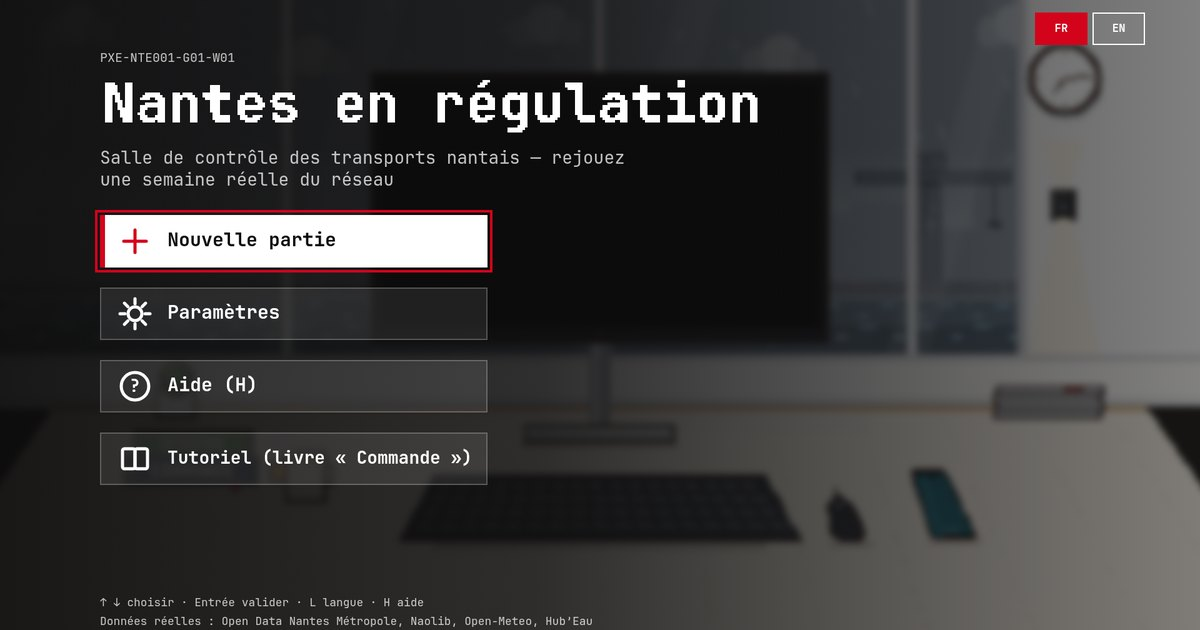
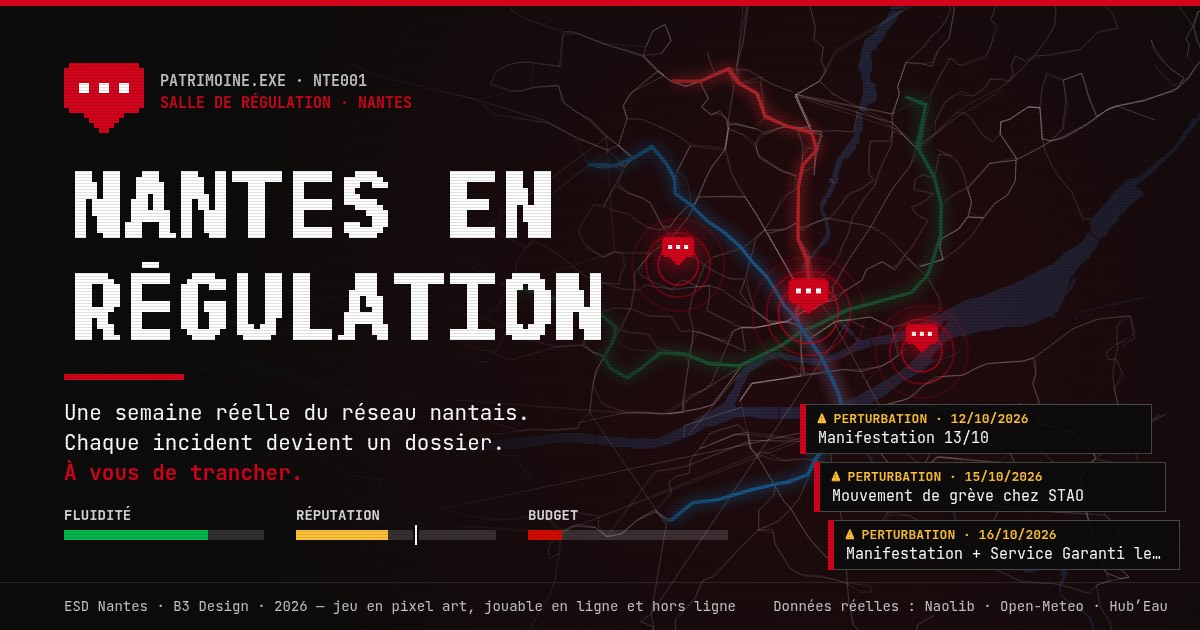
Image Open Graph plus visuelle : carte réelle de nuit, titre pixel, alertes et dossiers réels

diff --git a/site/scripts/og-image.html b/site/scripts/og-image.html
@@ -1,0 +1,201 @@
+<!doctype html>
+<!-- Nantes en régulation — gabarit de l'image Open Graph (1200 × 630), rendu par site/scripts/og-image.mjs.
+     Tout ce qui est dessiné vient du dépôt : tracés réels des lignes Naolib et de la Loire (data/lignes.json,
+     Open Data Nantes Métropole, Licence Ouverte), trois dossiers réels du repli (data/fallback.json), logo
+     bulle-pin (favicon.svg), couleurs du Pixel Design System, police JetBrains Mono auto-hébergée. -->
+<html lang="fr">
+	<head>
+		<meta charset="utf-8" />
+		<link rel="stylesheet" href="../public/fonts.css" />
+		<style>
+			html, body { margin: 0; background: #0d0c0c; }
+			canvas { display: block; }
+		</style>
+	</head>
+	<body>
+		<canvas id="og" width="1200" height="630"></canvas>
+		<script>
+			const W = 1200, H = 630;
+			const ROUGE = '#D4031C', FOND = '#0D0C0C', BLANC = '#FFFFFF';
+			const cv = document.getElementById('og');
+			const g = cv.getContext('2d');
+
+			/** Texte « pixel » : rendu petit, seuillé (pas d'anticrénelage), puis agrandi sans lissage */
+			function textePixel(txt, x, y, taillePx, echelle, couleur) {
+				const c = document.createElement('canvas');
+				const k = c.getContext('2d');
+				k.font = `800 ${taillePx}px "JetBrains Mono"`;
+				const l = Math.ceil(k.measureText(txt).width) + 4;
+				c.width = l;
+				c.height = taillePx + 6;
+				k.font = `800 ${taillePx}px "JetBrains Mono"`;
+				k.textBaseline = 'top';
+				k.fillStyle = '#fff';
+				k.fillText(txt, 2, 2);
+				const im = k.getImageData(0, 0, c.width, c.height);
+				const [r, v, b] = couleur.match(/\w\w/g).map((h) => parseInt(h, 16));
+				for (let i = 0; i < im.data.length; i += 4) {
+					const plein = im.data[i + 3] > 110;
+					im.data[i] = r; im.data[i + 1] = v; im.data[i + 2] = b; im.data[i + 3] = plein ? 255 : 0;
+				}
+				k.putImageData(im, 0, 0);
+				g.imageSmoothingEnabled = false;
+				g.drawImage(c, x, y, c.width * echelle, c.height * echelle);
+				return c.width * echelle;
+			}
+			/** Logo bulle-pin (favicon.svg), 16 × 16 pixels */
+			function logo(x, y, p) {
+				const r = (a, b, l, h, c) => ((g.fillStyle = c), g.fillRect(x + a * p, y + b * p, l * p, h * p));
+				[[1, 1, 14, 1], [0, 2, 16, 8], [1, 10, 14, 1], [4, 11, 8, 1], [5, 12, 6, 1], [6, 13, 4, 1], [7, 14, 2, 1]].forEach((q) => r(...q, ROUGE));
+				[[3, 5, 2, 2], [7, 5, 2, 2], [11, 5, 2, 2]].forEach((q) => r(...q, BLANC));
+			}
+
+			async function dessiner() {
+				await document.fonts.load('800 20px "JetBrains Mono"');
+				await document.fonts.load('400 20px "JetBrains Mono"');
+				const L = await (await fetch('../public/data/lignes.json')).json();
+				const F = await (await fetch('../public/data/fallback.json')).json();
+
+				g.fillStyle = FOND;
+				g.fillRect(0, 0, W, H);
+
+				// ——— Carte réelle : centre-ville de Nantes, cadré à droite ———
+				const centre = [-1.556, 47.214];
+				const kx = Math.cos((centre[1] * Math.PI) / 180);
+				const ech = 5200; // px par degré de longitude corrigé
+				const px = ([lon, lat]) => [800 + (lon - centre[0]) * kx * ech, 330 - (lat - centre[1]) * ech];
+				const chemin = (pts) => {
+					g.beginPath();
+					pts.forEach((p, i) => { const [a, b] = px(p); i ? g.lineTo(a, b) : g.moveTo(a, b); });
+				};
+				// Loire et cours d'eau
+				g.fillStyle = '#16304d';
+				L.eau.forEach((poly) => { chemin(poly); g.closePath(); g.fill(); });
+				// Lignes : bus en fin, tram et busway (type 0) épais et lumineux
+				const lignes = L.lignes.slice().sort((a, b) => (a.type === 0) - (b.type === 0));
+				lignes.forEach((ln) => {
+					const tram = ln.type === 0;
+					g.strokeStyle = tram ? ln.couleur || BLANC : 'rgba(255,255,255,0.16)';
+					g.lineWidth = tram ? 3 : 1;
+					g.shadowColor = tram ? ln.couleur || BLANC : 'transparent';
+					g.shadowBlur = tram ? 14 : 0;
+					g.globalAlpha = tram ? 0.9 : 1;
+					ln.traces.forEach((t) => { chemin(t); g.stroke(); });
+				});
+				g.shadowBlur = 0;
+				g.globalAlpha = 1;
+
+				// Voile : la gauche sombre pour le titre, bords en vignette
+				let gr = g.createLinearGradient(0, 0, W, 0);
+				gr.addColorStop(0, 'rgba(13,12,12,1)');
+				gr.addColorStop(0.36, 'rgba(13,12,12,0.94)');
+				gr.addColorStop(0.62, 'rgba(13,12,12,0.25)');
+				gr.addColorStop(1, 'rgba(13,12,12,0.55)');
+				g.fillStyle = gr;
+				g.fillRect(0, 0, W, H);
+				gr = g.createRadialGradient(820, 320, 120, 820, 320, 620);
+				gr.addColorStop(0, 'rgba(212,3,28,0.10)');
+				gr.addColorStop(1, 'rgba(212,3,28,0)');
+				g.fillStyle = gr;
+				g.fillRect(0, 0, W, H);
+
+				// ——— Alertes : pins bulle-pin avec ondes, posés sur des tracés réels ———
+				const pins = [[-1.5536, 47.2172], [-1.5905, 47.2265], [-1.5215, 47.2098]];
+				pins.forEach((p, i) => {
+					const [a, b] = px(p);
+					[46, 32, 20].forEach((r, k) => {
+						g.strokeStyle = `rgba(212,3,28,${0.18 + k * 0.2})`;
+						g.lineWidth = 2;
+						g.beginPath();
+						g.arc(a, b, r + (i === 0 ? 10 : 0), 0, Math.PI * 2);
+						g.stroke();
+					});
+					g.shadowColor = ROUGE;
+					g.shadowBlur = 24;
+					logo(a - 16 * (i === 0 ? 2.5 : 2) / 2, b - 15 * (i === 0 ? 2.5 : 2), i === 0 ? 2.5 : 2);
+					g.shadowBlur = 0;
+				});
+
+				// ——— Dossiers réels (repli : semaine du 12 au 18/10/2026) ———
+				const dossiers = F.dossiers.filter((d) => d.type === 'perturbation').slice(0, 3);
+				const fmt = (iso) => iso.split('-').reverse().slice(0, 2).join('/');
+				dossiers.forEach((d, i) => {
+					const x = 800 + i * 14, y = 404 + i * 58, l = 352, h = 50;
+					g.fillStyle = 'rgba(13,12,12,0.92)';
+					g.fillRect(x, y, l, h);
+					g.strokeStyle = 'rgba(255,255,255,0.25)';
+					g.lineWidth = 1;
+					g.strokeRect(x + 0.5, y + 0.5, l - 1, h - 1);
+					g.fillStyle = ROUGE;
+					g.fillRect(x, y, 6, h);
+					g.font = '700 13px "JetBrains Mono"';
+					g.fillStyle = '#FFC138';
+					g.fillText('⚠ ' + String(d.type).toUpperCase() + ' · ' + fmt(d.date) + '/2026', x + 18, y + 19);
+					g.font = '400 15px "JetBrains Mono"';
+					g.fillStyle = BLANC;
+					let t = String(d.texte_source || d.nature);
+					while (g.measureText(t).width > l - 36) t = t.slice(0, -2) + '…';
+					g.fillText(t, x + 18, y + 39);
+				});
+
+				// ——— Titre ———
+				logo(64, 58, 5);
+				g.font = '700 15px "JetBrains Mono"';
+				g.fillStyle = 'rgba(255,255,255,0.75)';
+				g.fillText('PATRIMOINE.EXE · NTE001', 160, 86);
+				g.fillStyle = ROUGE;
+				g.fillText('SALLE DE RÉGULATION · NANTES', 160, 108);
+				g.shadowColor = 'rgba(212,3,28,0.55)';
+				g.shadowBlur = 0;
+				textePixel('NANTES EN', 58, 160, 16, 5.6, 'FFFFFF');
+				textePixel('RÉGULATION', 58, 262, 16, 5.6, 'FFFFFF');
+				g.fillStyle = ROUGE;
+				g.fillRect(64, 374, 120, 6);
+
+				g.font = '400 21px "JetBrains Mono"';
+				g.fillStyle = BLANC;
+				g.fillText('Une semaine réelle du réseau nantais.', 64, 420);
+				g.fillText('Chaque incident devient un dossier.', 64, 450);
+				g.font = '700 21px "JetBrains Mono"';
+				g.fillStyle = ROUGE;
+				g.fillText('À vous de trancher.', 64, 480);
+
+				// Jauges du jeu : fluidité, réputation, budget (sans chiffre, barre blanche d'objectif)
+				[['Fluidité', 0.72, '#00B74F'], ['Réputation', 0.46, '#FFC138'], ['Budget', 0.17, '#D10B00']].forEach(([nom, v, c], i) => {
+					const x = 64 + i * 232, y = 520;
+					g.font = '700 14px "JetBrains Mono"';
+					g.fillStyle = 'rgba(255,255,255,0.85)';
+					g.fillText(nom.toUpperCase(), x, y);
+					g.fillStyle = 'rgba(255,255,255,0.15)';
+					g.fillRect(x, y + 10, 200, 10);
+					g.fillStyle = c;
+					g.fillRect(x, y + 10, 200 * v, 10);
+					if (i === 1) {
+						g.fillStyle = FOND;
+						g.fillRect(x + 120 - 3, y + 4, 6, 22);
+						g.fillStyle = BLANC;
+						g.fillRect(x + 120 - 1, y + 5, 2, 20);
+					}
+				});
+
+				// Pied
+				g.fillStyle = 'rgba(255,255,255,0.12)';
+				g.fillRect(0, 582, W, 1);
+				g.font = '400 14px "JetBrains Mono"';
+				g.fillStyle = 'rgba(255,255,255,0.75)';
+				g.fillText('ESD Nantes · B3 Design · 2026 — jeu en pixel art, jouable en ligne et hors ligne', 64, 611);
+				g.textAlign = 'right';
+				g.fillText('Données réelles : Naolib · Open-Meteo · Hub’Eau', W - 32, 611);
+				g.textAlign = 'left';
+
+				// Cadre et lignes de balayage discrètes (écran de régulation)
+				g.fillStyle = 'rgba(0,0,0,0.12)';
+				for (let y = 0; y < H; y += 3) g.fillRect(0, y, W, 1);
+				g.fillStyle = ROUGE;
+				g.fillRect(0, 0, W, 6);
+				document.title = 'pret';
+			}
+			dessiner();
+		</script>
+	</body>
+</html>

diff --git a/site/public/index.html b/site/public/index.html
@@ -42,13 +42,14 @@
 		<meta property="og:image" content="https://workshop-design-interactions.pages.dev/og-image.jpg" />
 		<meta property="og:image:width" content="1200" />
 		<meta property="og:image:height" content="630" />
-		<meta property="og:image:alt" content="Écran titre de Nantes en régulation : le bureau de la salle de régulation en pixel art, menu Nouvelle partie, Paramètres, Aide, Tutoriel." />
+		<meta property="og:image:alt" content="Affiche de Nantes en régulation : titre en pixel art sur la carte de nuit du réseau Naolib et de la Loire (tracés réels), alertes rouges, trois dossiers réels de perturbation d’octobre 2026 et les jauges fluidité, réputation, budget." />
 		<meta property="og:locale" content="fr_FR" />
 		<meta property="og:locale:alternate" content="en_GB" />
 		<meta name="twitter:card" content="summary_large_image" />
 		<meta name="twitter:title" content="Nantes en régulation" />
 		<meta name="twitter:description" content="Jeu en pixel art : régulez le réseau de transports nantais à partir de données réelles (perturbations du réseau Naolib, retards en temps réel seulement, météo, agenda de Nantes Métropole). Mode histoire en trois semaines et mode temps réel." />
 		<meta name="twitter:image" content="https://workshop-design-interactions.pages.dev/og-image.jpg" />
+		<meta name="twitter:image:alt" content="Affiche de Nantes en régulation : titre en pixel art sur la carte de nuit du réseau Naolib et de la Loire (tracés réels), alertes rouges, trois dossiers réels de perturbation d’octobre 2026 et les jauges fluidité, réputation, budget." />
 		<script type="application/ld+json">
 			{
 				"@context": "https://schema.org",

diff --git a/rendu/PXE_NTE001_G01_NANTES-EN-REGULATION/index.html b/rendu/PXE_NTE001_G01_NANTES-EN-REGULATION/index.html
@@ -42,13 +42,14 @@
 		<meta property="og:image" content="https://workshop-design-interactions.pages.dev/og-image.jpg" />
 		<meta property="og:image:width" content="1200" />
 		<meta property="og:image:height" content="630" />
-		<meta property="og:image:alt" content="Écran titre de Nantes en régulation : le bureau de la salle de régulation en pixel art, menu Nouvelle partie, Paramètres, Aide, Tutoriel." />
+		<meta property="og:image:alt" content="Affiche de Nantes en régulation : titre en pixel art sur la carte de nuit du réseau Naolib et de la Loire (tracés réels), alertes rouges, trois dossiers réels de perturbation d’octobre 2026 et les jauges fluidité, réputation, budget." />
 		<meta property="og:locale" content="fr_FR" />
 		<meta property="og:locale:alternate" content="en_GB" />
 		<meta name="twitter:card" content="summary_large_image" />
 		<meta name="twitter:title" content="Nantes en régulation" />
 		<meta name="twitter:description" content="Jeu en pixel art : régulez le réseau de transports nantais à partir de données réelles (retards Naolib, météo, agenda de Nantes Métropole). Mode histoire en trois semaines et mode temps réel." />
 		<meta name="twitter:image" content="https://workshop-design-interactions.pages.dev/og-image.jpg" />
+		<meta name="twitter:image:alt" content="Affiche de Nantes en régulation : titre en pixel art sur la carte de nuit du réseau Naolib et de la Loire (tracés réels), alertes rouges, trois dossiers réels de perturbation d’octobre 2026 et les jauges fluidité, réputation, budget." />
 		<script type="application/ld+json">
 			{
 				"@context": "https://schema.org",

diff --git a/rendu/PXE_NTE001_G01_NANTES-EN-REGULATION/sw.js b/rendu/PXE_NTE001_G01_NANTES-EN-REGULATION/sw.js
@@ -9,7 +9,7 @@
  * Enregistré seulement en http(s), jamais en file:// (index.html).
  */
 /* précache:début (généré par scripts/generer-sw.mjs — ne pas modifier à la main) */
-const VERSION = 'nte-regulation-999c1d2919';
+const VERSION = 'nte-regulation-6cf7787ef8';
 const ESSENTIELS = [
 	"./",
 	"./accessibilite.js",

diff --git a/site/public/sw.js b/site/public/sw.js
@@ -9,7 +9,7 @@
  * Enregistré seulement en http(s), jamais en file:// (index.html).
  */
 /* précache:début (généré par scripts/generer-sw.mjs — ne pas modifier à la main) */
-const VERSION = 'nte-regulation-598e7b53cc';
+const VERSION = 'nte-regulation-6cf7787ef8';
 const ESSENTIELS = [
 	"./",
 	"./accessibilite.js",

diff --git a/journal.md b/journal.md
@@ -4,6 +4,7 @@ Règle : chaque push sur la branche main ajoute une entrée dans le tableau, la 
 
 | Date | Commit | Fichiers | Résumé |
 |---|---|---|---|
+| 2026-11-12 | ce commit | site/public/og-image.jpg, site/scripts/og-image.html + og-image.mjs (nouveaux), site/public/index.html, sw.js (+ copie rendu/) | Image Open Graph refaite, plus visuelle : titre pixel, carte de nuit du réseau Naolib et de la Loire (tracés réels), alertes bulle-pin, 3 dossiers réels du repli, jauges ; gabarit reproductible ; texte alternatif og/twitter mis à jour |
 | 2026-11-12 | ce commit | prompts/162-jeu-fictif-affluence-supposee-mot-reel.md (nouveau), prompts/README.md, prompts/auteurs.json, site/public/ (i18n.js, game.js, taches.js, panneau.js, immersion.js, journal.js, community.js, os.js, multitache.js, journal-donnees.js, notifs-tel.js, data/messages.json, data/messages.js, sw.js), site/scripts/test-jeu.mjs | Prompt 162 : « Fictif · » sur chaque trace du dossier fictif via une aide commune (`estFictif` / `marquerFictif`, i18n.js) — titre et onglet de la fenêtre, posts, commentaires et plaintes Community, reproches du patron, notifications du téléphone, mail du soir et journal du game over (`Jeu.ligneMail`), faits du rapport du soir (donc « Fait marquant »), décisions clés, Journal ; dossiers du jour comptés par part (`Jeu.compositionDossiers` : perturbations réelles, alertes météo, événements de l'agenda, incident fictif, conséquences de jeu) dans la transition, la pile de dossiers et la consigne du patron ; affluence dite supposée (type, phrase, tâche « Préparer un événement », causes d'info trafic, conseil, journal, enquête « affluence : hypothèse du jeu », plaintes d'affluence et SMS de Camille au conditionnel avec le nom de l'événement `{nom}` au lieu de la catégorie d'agenda) ; « Retard mesuré » seulement si un retard est connu ; alerte météo « Pic de la semaine » en nombres à la française ; « réel » réservé à la source (crédits, `fin.sources`, `mp.mode.sous`, « Votre semaine en chiffres », « valeur »), nature du fictif traduite en EN ; contrôle `test-jeu.mjs` étendu (partie jouée avec l'incident fictif, FR et EN) ; smoke 549 + jeu 4775 contrôles verts, audit textes 0 défaut aux 3 tailles |
 | 2026-11-12 | ce commit | prompts/161-jeu-textes-alignes-regle-jouee.md (nouveau), prompts/README.md, prompts/auteurs.json, site/public/ (i18n.js, histoire.js, menu.js, immersion.js, sieste.js, cafe.js, guide.js, aide.js, index.html, manifest.webmanifest, sw.js), site/scripts/test-jeu.mjs | Prompt 161 : les textes décrivent le jeu qui tourne — le patron annonce aux semaines 2 et 3 la règle jouée (signalements simultanés, budget de départ, compteur seulement en défi chrono), « nouveau » réservé aux imprévus / conflits de la semaine 3, difficulté du menu sans « retards × » (budget 50 en défi chrono), trois répliques (écran et annonce « Votre poste »), sieste / café / micro / guide selon le mode, livre stress, aide (gravité et retard en temps réel, malus sans Q25, sources E ou 5 à 8, ligne « 0 ou Espace » retirée), profils avec les familles de répliques, étape « jauges » du guide validée après lecture, méta description ; contrôle des formules périmées étendu (histoire.c*, mp.*, poste.*, sieste.*, cafe.*, stress.*, credits.*, fin.*…) ; smoke 548 + jeu 4687 contrôles verts, audit textes 0 défaut aux 3 tailles |
 | 2026-11-12 | ce commit | README.md, rendu/PXE_NTE001_G01_NANTES-EN-REGULATION/README.md | Section « Conformité au brief » dans les deux README : chaque obligation du livret et chaque livrable mis en regard de sa preuve (fichier, test, URL) ; le test par un autre groupe reste `[À COMPLÉTER]` faute de trace |
